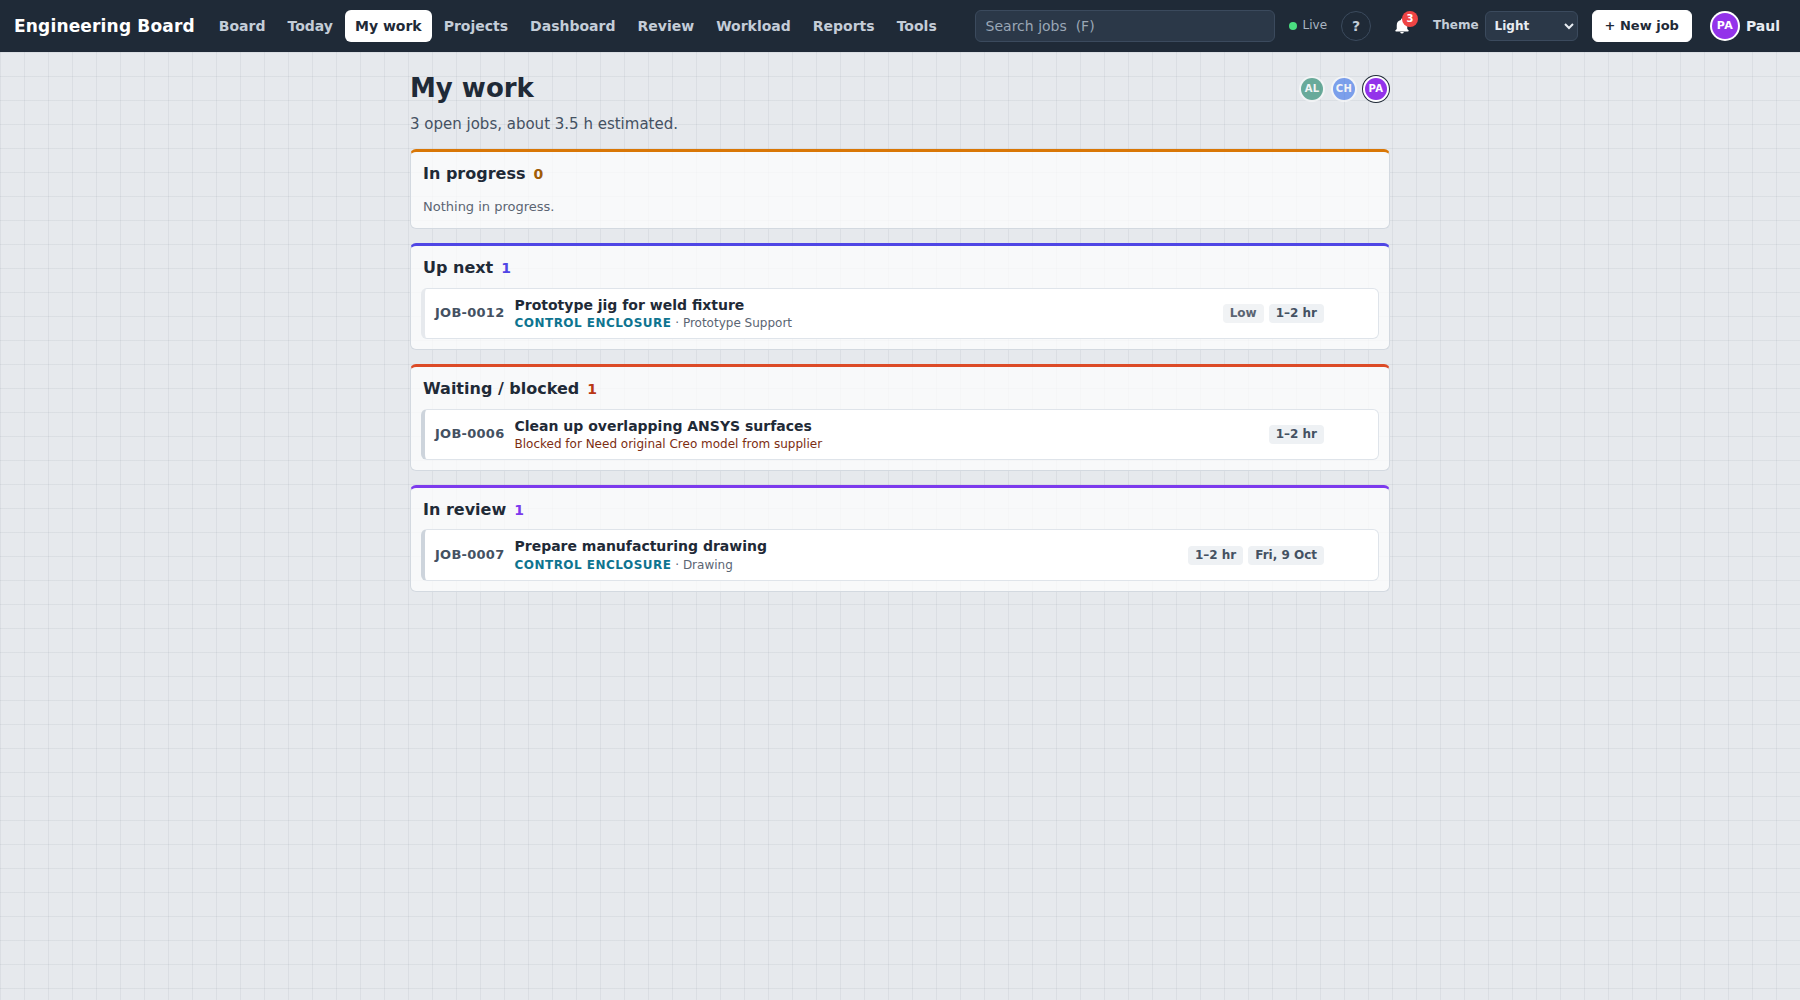
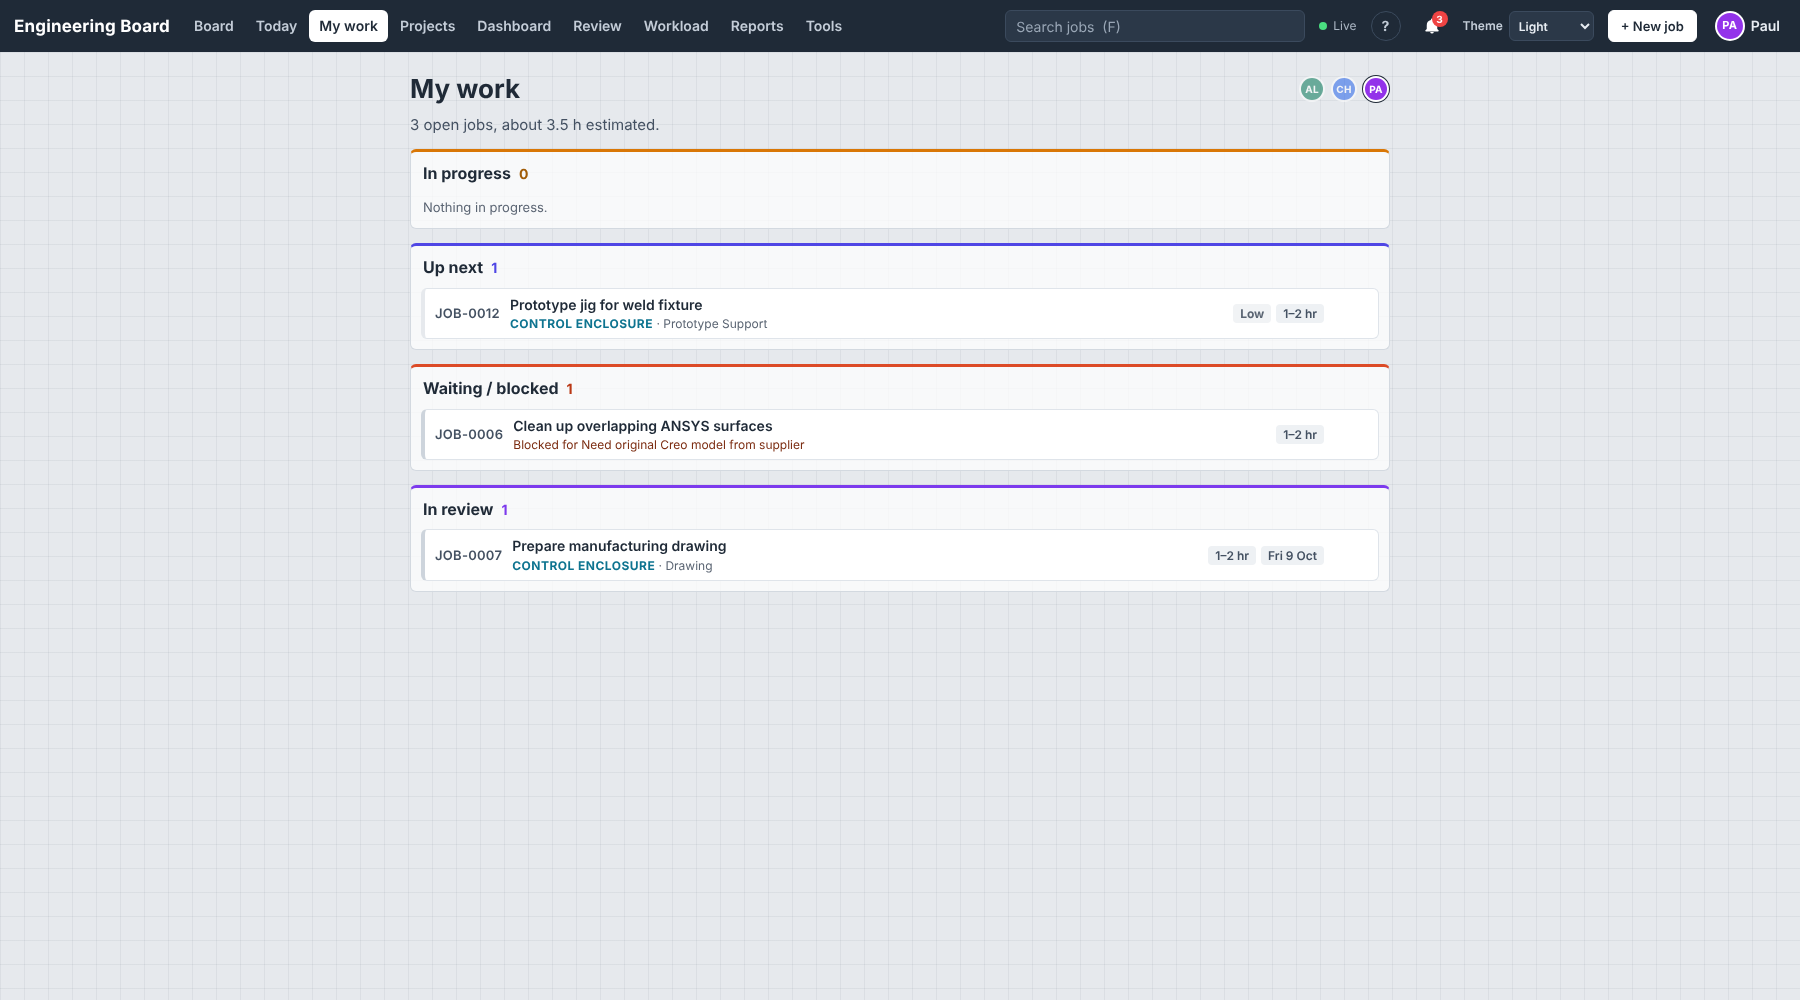
README and screenshots for 1.5.0
Re-shoot every README screenshot on 1.5.0 and add the sheet calculator,
its cutting layout, Admin → Roles and Admin → Tools. Bring the README text
up to date: ten pages, role capabilities in B3, schema 10, 198 backend and
39 browser tests, the code layout's domain modules.

Claude-Session: https://claude.ai/code/session_01ETdD34XJ1VLpe689S7wBTy

diff --git a/README.md b/README.md
@@ -8,7 +8,7 @@ One shared board for every design job: who is on it, what it is waiting for, whe
 
 ![The board: six columns from Inbox to Done, with the demo jobs](assets/screenshots/board.png)
 
-*Every picture in this file is a real screenshot of version 1.2.0 (1.3.0 for drawing review and Admin) running with its demo data, taken in Chromium by `scripts/screenshots.mjs`.*
+*Every picture in this file is a real screenshot of version 1.5.0 running with its demo data, taken in Chromium by `scripts/screenshots.mjs`.*
 
 | | |
 |---|---|
@@ -23,11 +23,11 @@ One shared board for every design job: who is on it, what it is waiting for, whe
 
 | Section | What you will find |
 |---|---|
-| [A. The pages](#a-the-pages) | Nine views, each with its shortcut key |
+| [A. The pages](#a-the-pages) | Ten pages, each with its shortcut key |
 | [B. The job record](#b-the-job-record) | Every field a job carries, and how a job moves |
 | [C. Working together](#c-working-together) | Claiming, live updates, edit merging, notifications |
 | [D. Finding things](#d-finding-things) | Search, filters, export |
-| [E. Administration](#e-administration) | Team, import, backups, restore, archive |
+| [E. Administration](#e-administration) | Team, roles, tools data, import, backups, restore, archive |
 | [F. Appearance](#f-appearance) | Three themes, keyboard, phone and tablet |
 | [G. Editions and installation](#g-editions-and-installation) | Windows, Linux, Docker |
 | [H. Specifications](#h-specifications) | Settings, limits, checks |
@@ -60,10 +60,18 @@ Every page has a one-key shortcut. Press <kbd>?</kbd> anywhere for the full list
 | **A2 Today** | **A4 Dashboard** |
 | ![Workload: estimated hours per engineer against the 8-hour reference line](assets/screenshots/workload.png) | ![Reports: completed per day, per engineer and per job type](assets/screenshots/reports.png) |
 | **A5 Workload** | **A6 Reports** |
-| ![A job opened from the board, with every field in the side panel](assets/screenshots/job-panel.png) | ![My work: one engineer's open jobs in their own order](assets/screenshots/my-work.png) |
+| ![A job opened from the board: its project in bold above the title on every card, and every field in the side panel, with Copy and Go to location beside the file path](assets/screenshots/job-panel.png) | ![My work: one engineer's open jobs in their own order](assets/screenshots/my-work.png) |
 | **A1 Board with a job open** | **A3 My work** |
 | ![Projects: every project with its open and total jobs, and all the jobs of the chosen project](assets/screenshots/projects.png) | ![New job: a title and its project, with "+ Add a project…" for a new one](assets/screenshots/new-job.png) |
 | **A9 Projects** | **New job, with its project** |
+| ![Team activity: every change to every job, newest first, filterable by person](assets/screenshots/activity.png) | ![Admin → Roles: what engineers, managers and reviewers may do with jobs](assets/screenshots/admin-roles.png) |
+| **A7 Team activity** | **E10 Admin → Roles** |
+
+**A10 Tools: the sheet calculator.** The team's *Sheet Requirement Calculator* workbook as a page, giving the workbook's own answers. Below, its example (Mild Steel 2500 × 1250, 150 × 100 mm × 500, kerf 3, margin 5): 192 per sheet, 3 sheets, 116 on the last, 80% utilisation. A second component on Aluminium adds its own sheets, totalled per material.
+
+![Sheet calculator: two components, the kerf, edge margin and rotation inputs, and the sheets required per component and per material](assets/screenshots/tools-sheet.png)
+
+![The cutting layout: sheet 3 of 3 drawn to scale, 16 across × 12 down, parts numbered, unused slots in grey](assets/screenshots/tools-layout.png)
 
 **A8 Drawing review.** The queue, and the workspace with the signed reference on the left and the submitted drawing on the right, each with its own page, zoom and rotation. The open comment blocks **Pass board review** until it is resolved.
 
@@ -110,11 +118,15 @@ Drag a card, press <kbd>Shift</kbd>+<kbd>←</kbd> / <kbd>→</kbd>, or use the 
 
 ### B3. Who may do what
 
-| | Create and edit | Comment | Claim and work | Assign to others |
+These are the shipped rules. An admin can change the three job capabilities per role under **Admin → Roles** (E10); board review is not part of that setting and stays as described below.
+
+| | Create jobs | Claim and be assigned jobs | Edit and move any job | Comment |
 |---|:---:|:---:|:---:|:---:|
 | **Engineer** | yes | yes | yes | yes |
-| **Manager** | yes | yes | no | yes |
-| **Reviewer** | no | drawings only | no | no |
+| **Manager** | yes | no | yes | yes |
+| **Reviewer** | no | no | no | drawings only |
+
+*Create jobs* also lets a role add projects. *Edit and move any job* covers every field, column, assigning others and archiving. A role with *claim* but not *edit* works only on the jobs it holds.
 
 Drawing review: engineers submit drawings, hand each one to one or more reviewers, mark prints handed over and record signatures; the manager and reviewers pass or return drawings (never their own submission) and record signatures. A reviewer sees only the drawings handed to them, with the job's number and title, and no other page of the board; the manager sees everything. Engineers can't review drawings. A job with drawings in board review is Done only when every drawing is physically signed.
 
@@ -157,14 +169,16 @@ Behind the admin PIN, unlocked per browser for 12 hours. The PIN starts as `1234
 | **E5** | **Restore** | From the list, or from an uploaded `.db` file (64 MiB by default, adjustable). The file is checked and prepared first; if anything fails the original data is put back. The current data is backed up before every restore, so a restore can itself be undone. Nobody is signed out. |
 | **E6** | **Archive** | Hide jobs finished more than N days ago from lists and reports. Never deletes. |
 | **E7** | **Admin PIN** | Change it. If it is forgotten, put an empty file named `RESET-ADMIN-PIN` next to `start.bat` and restart. |
-| **E9** | **Passwords** | Everyone signs in with their own password, created at their first sign-in and changeable from the account menu. Admins reset a forgotten one (the person creates a new one next time). If everyone is locked out, an empty file named `RESET-PASSWORDS` next to `start.bat` clears them all on the next start. |
 | **E8** | **Demo data** | Twelve example jobs across every column, removable in one click without touching real jobs. |
-| **E10** | **Roles** | What engineers, managers and reviewers may do with jobs: create, claim and be assigned, edit any job. Shipped rules: engineers everything, managers create and edit, reviewers nothing. Board review is separate and unaffected. |
-| **E11** | **Tools data** | The materials and standard sheet sizes behind the sheet calculator (the workbook's Materials sheet), and the defaults for its kerf, edge margin and rotation inputs. |
+| **E9** | **Passwords** | Everyone signs in with their own password, created at their first sign-in and changeable from the account menu. Admins reset a forgotten one (the person creates a new one next time). If everyone is locked out, an empty file named `RESET-PASSWORDS` next to `start.bat` clears them all on the next start. |
+| **E10** | **Roles** | What engineers, managers and reviewers may do with jobs: create, claim and be assigned, edit any job (see B3). Shipped rules: engineers everything, managers create and edit, reviewers nothing. Taking *claim* away from a role whose members still hold open jobs is refused until those jobs are reassigned. Board review is separate and unaffected. |
+| **E11** | **Tools data** | The materials and standard sheet sizes behind the sheet calculator (the workbook's Materials sheet: ten materials with its typical sizes, to be replaced with the supplier's real ones), and the defaults for its kerf, edge margin and rotation inputs. Materials are retired, never deleted. |
 
 ![The sign-in screen: pick your name, then enter or create your password; the theme can be chosen before signing in](assets/screenshots/sign-in.png)
 
 ![Admin → Team: role, badge colour, admin menu, active, and password reset per person](assets/screenshots/admin.png)
+
+![Admin → Tools: the materials and standard sheet sizes behind the sheet calculator](assets/screenshots/admin-tools.png)
 
 ## F. Appearance
 
@@ -243,9 +257,9 @@ Copy `config.example.json` to `config.json` next to `start.bat`, edit it, restar
 | **History** | Append-only, enforced by database triggers. Jobs cannot be deleted. |
 | **Concurrency** | Version-checked edits, atomic claiming, idempotent creation. |
 | **Search** | SQLite full-text with trigram matching, so any three letters match. |
-| **Upgrades** | Schema version 9. A backup is taken before a new version changes the database. A board refuses to start on data written by a newer version. |
+| **Upgrades** | Schema version 10. A backup is taken before a new version changes the database. A board refuses to start on data written by a newer version. |
 | **Network** | LAN only; no outbound traffic. Name picker plus a password (scrypt hash) and a signed cookie bound to it; admin behind a hashed PIN; five wrong passwords pause sign-in for 30 seconds. |
-| **Checked by** | 180 backend tests, 37 browser tests, 15 package checks, and a typecheck. |
+| **Checked by** | 198 backend tests, 39 browser tests, 15 package checks, and a typecheck. The sheet calculator is checked against the workbook's own example. |
 
 ## J. Documentation
 
@@ -263,7 +277,7 @@ Copy `config.example.json` to `config.json` next to `start.bat`, edit it, restar
 
 | Version | What it brought |
 |---|---|
-| **1.5.0** | The project name stands out on cards and job rows. Admin-set role capabilities (create, claim and be assigned, edit any job) for engineers, managers and reviewers, leaving board review untouched. **Go to location** beside a job's file path. A **Tools** page with the team's sheet calculator workbook as a page, its materials and sheet sizes editable by the admin. |
+| **1.5.0** | The project name stands out on cards and job rows. Admin-set role capabilities (create, claim and be assigned, edit any job) for engineers, managers and reviewers, leaving board review untouched. **Go to location** beside a job's file path. A **Tools** page with the team's *Sheet Requirement Calculator* workbook as a page, formula for formula, with its cutting layout drawn to scale; its materials and sheet sizes editable by the admin. |
 | **1.4.0** | Projects: every job belongs to a project, chosen or added from the New job form; a Projects page with each project's jobs; project filter, search, card and job-panel display; Project column in import and export. No preset list: projects are added as they are needed. |
 | **1.3.0** | Reviewer access: engineers hand each drawing to one or more reviewers (and can change them later). A reviewer sees only the drawings handed to them, with the job number and title: no board, workload, reports, search, other jobs, team activity or Admin. The manager keeps full access. |
 | **1.2.0** | Password sign-in for everyone, current and new: each person creates their own password at their first sign-in, changes it from the account menu, and an admin can reset a forgotten one. A `RESET-PASSWORDS` file on the host PC clears them all. Restores keep the current passwords. |
@@ -301,11 +315,13 @@ server/src/
   config.ts      config.json and environment variables, with plain-English errors
   http/          router, bodies, cookies, static files, error mapping
   db/            connection, transactions, migrations, seed data
-  domain/        tickets, rank, search, views, users, job types, auth,
-                 notifications, presence, backup, import and export
+  domain/        tickets, rank, search, views, reports, users, job types, auth,
+                 permissions, projects, tools, notifications, presence,
+                 backup, import and export (transfer), drawing review
+                 (reviews, reviewStore, projectFolder, pdf)
 server/test/     node:test suites against a real server and a real SQLite file
 e2e/             browser tests and the build and package check
 scripts/         build, package, lib (markdown, zip, guides), windows/, linux/
-assets/          README screenshots
-docs/            the guides, also built into the app
+assets/          README screenshots (scripts/screenshots.mjs)
+docs/            the guides, also built into the app; docs/tools/ holds the calculator's workbook
 ```

diff --git a/CHANGELOG.md b/CHANGELOG.md
@@ -189,3 +189,14 @@
 - **Decisions affected:** #32 rewritten to describe the workbook's method (same decision, now exact). No runtime dependency (#1).
 - **Validation:** On Node 22.22.0: typecheck; 198 backend tests, including the workbook's example formula for formula, rotation off, a part that only fits one way, one that fits none, totals per material and skipped rows; build; 15 package checks; 39 browser tests in real Chromium, with the calculator test rewritten around the workbook's example and its layout drawing (192 parts drawn, 116 on the last sheet with 76 grey slots, kerf 10 → 165 per sheet).
 - **Follow-ups / open issues:** the stock sizes are the workbook's placeholders; replace them under Admin → Tools with the supplier's real sizes. Thickness could return later as a note on a row if the team wants it on the printout.
+
+### 2026-10-07 22:45 IST | Claude | branch: claude/readme-1.5.0
+- **What:** The README and its screenshots now describe 1.5.0.
+  - **Screenshots re-shot** with `node scripts/screenshots.mjs` against a fresh demo board, so every picture is 1.5.0 (the caption said 1.2.0 and 1.3.0). The script now also takes the sheet calculator (the workbook's own example, Mild Steel 150 × 100 × 500 → 192 per sheet, 3 sheets, plus a second component on Aluminium), its cutting layout (sheet 3 of 3, 116 parts), Admin → Roles and Admin → Tools, and gives the demo bracket job a file location so the job panel shows **Copy** and **Go to location**.
+  - **New pictures in the README:** A10 Tools (calculator and layout), A7 Team activity (the image existed but wasn't shown), E10 Admin → Roles, E11 Admin → Tools.
+  - **Text:** ten pages, not nine; B3 rewritten around the three role capabilities and their shipped defaults, pointing to Admin → Roles; E8 and E9 back in order; E10 and E11 say what the admin pages say (claim can't be taken from a role still holding jobs; materials are retired, not deleted; stock sizes are the workbook's placeholders); schema version 10; 198 backend and 39 browser tests; the 1.5.0 release line says the calculator matches the workbook formula for formula; the code layout lists the domain modules added since 1.0 and `docs/tools/`.
+- **Why:** Christin asked for the README and its images to be brought up to date after 1.5.0 merged.
+- **Files:** `README.md`, `assets/screenshots/*.png` (all re-shot; new `tools-sheet.png`, `tools-layout.png`, `admin-roles.png`, `admin-tools.png`), `scripts/screenshots.mjs`, `HANDOFF.md`, `CHANGELOG.md`
+- **Decisions affected:** none. No code or runtime change.
+- **Validation:** On Node 22.22.0: typecheck and 198 backend tests pass; build; screenshots taken in Playwright's Chromium 153 and each new one checked by eye; every image the README links exists and every PNG in `assets/screenshots/` is linked.
+- **Follow-ups / open issues:** none.

diff --git a/HANDOFF.md b/HANDOFF.md
@@ -19,9 +19,9 @@ _(none)_
 - [x] The application source was not in this repo yet. **Answer:** Claude imported the full source and its history (phases 2 to 7) on branch `claude/import-app-source`, 2026-10-02.
 
 ## Notes for the next agent
-- **Where the project stands:** everything up to 1.4.0 (projects, decision #30) is on main. Branch `ccr-76842e6e-xbo8lh` proposes 1.5.0 (prominent project names, role capabilities #31, Go to location, Tools and the sheet calculator #32) for Christin's review.
+- **Where the project stands:** 1.5.0 (prominent project names, role capabilities #31, Go to location, Tools and the sheet calculator #32) is on main. The README and its screenshots describe 1.5.0.
 - **Releases:** `npm run package` writes `dist/EngineeringBoard-<version>.zip`. Bump `version` in `package.json` and `APP_VERSION` in `server/src/app.ts` together; `check:build` fails if they differ.
-- **README screenshots:** `assets/screenshots/` is written by `node scripts/screenshots.mjs` (build first; set `PLAYWRIGHT_CHROMIUM_EXECUTABLE_PATH` if Playwright's own Chromium isn't installed). Re-run it after visible changes.
+- **README screenshots:** `assets/screenshots/` is written by `node scripts/screenshots.mjs` (build first; set `PLAYWRIGHT_CHROMIUM_EXECUTABLE_PATH` if Playwright's own Chromium isn't installed). Re-run it after visible changes. It also shoots the sheet calculator (the workbook's example plus a second part), its cutting layout, Admin → Roles and Admin → Tools; every PNG in that folder is referenced from the README, so remove a shot from both places together.
 - **Guides:** edit the Markdown in `docs/`; the build turns them into the pages at `/guides/` and in the zip. `check:build` fails on a broken link between guides.
 - **Windows scripts** (`scripts/windows/*.bat`) can't be run in CI. Keep echo lines that show `%~dp0` outside `( )` blocks and quoted: a folder path containing `)` or `&` breaks them otherwise.
 - **Setup:** `npm install` installs the build and test tools (TypeScript, tsx, esbuild, React, Playwright). They are devDependencies only; the running board needs nothing but `node.exe` 22.16+ (decision #1).
